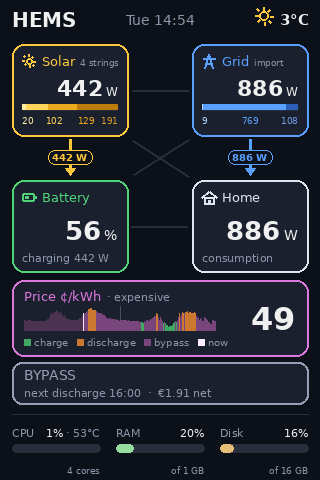
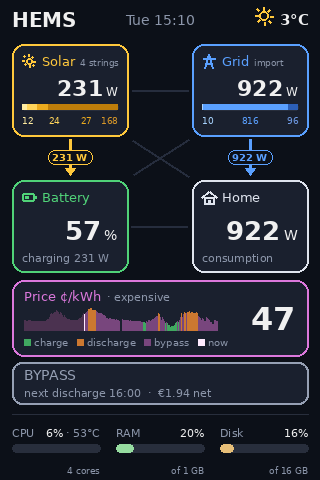
Display: midnight in the price chart is a 2 px gap instead of a line
The grey marker stuck out above the bars and looked like noise.

diff --git a/hems/display.py b/hems/display.py
@@ -401,8 +401,8 @@ def energy_section(d, v):
 
 def price_chart(d, x, y, h):
     """15-minute prices for today, plus tomorrow once published.
-    Today only: 2 px per slot. Today + tomorrow: 1 px per slot with a midnight
-    marker. Past slots dark, current slot white, future slots coloured by plan."""
+    Today only: 2 px per slot. Today + tomorrow: 1 px per slot with a 2 px
+    gap at midnight. Past slots dark, current slot white, future slots coloured by plan."""
     now = datetime.now().astimezone()
     days = [now.date(), now.date() + timedelta(days=1)]
     slots = [(t, p) for t, p, _ in tibber.slots() if t.date() in days]
@@ -414,12 +414,11 @@ def price_chart(d, x, y, h):
     lo, hi = min(vals), max(vals)
     span = max(hi - lo, 1e-6)
     plan_modes = {sl["start"]: sl["mode"] for sl in (load_plan() or {}).get("slots", [])}
-    if two_days:
-        d.line((x + 96, y - 2, x + 96, y + h), fill=(70, 76, 90))
     for t, p in slots:
-        i = (t.date() - days[0]).days * 96 + t.hour * 4 + t.minute // 15
+        day = (t.date() - days[0]).days
+        i = day * 96 + t.hour * 4 + t.minute // 15
         bh = 3 + (h - 3) * (p - lo) / span
-        x0 = x + px * i
+        x0 = x + px * i + 2 * day          # 2 px gap at midnight
         end = t + timedelta(minutes=15)
         if t <= now < end:
             col = CHART_COL["now"]
